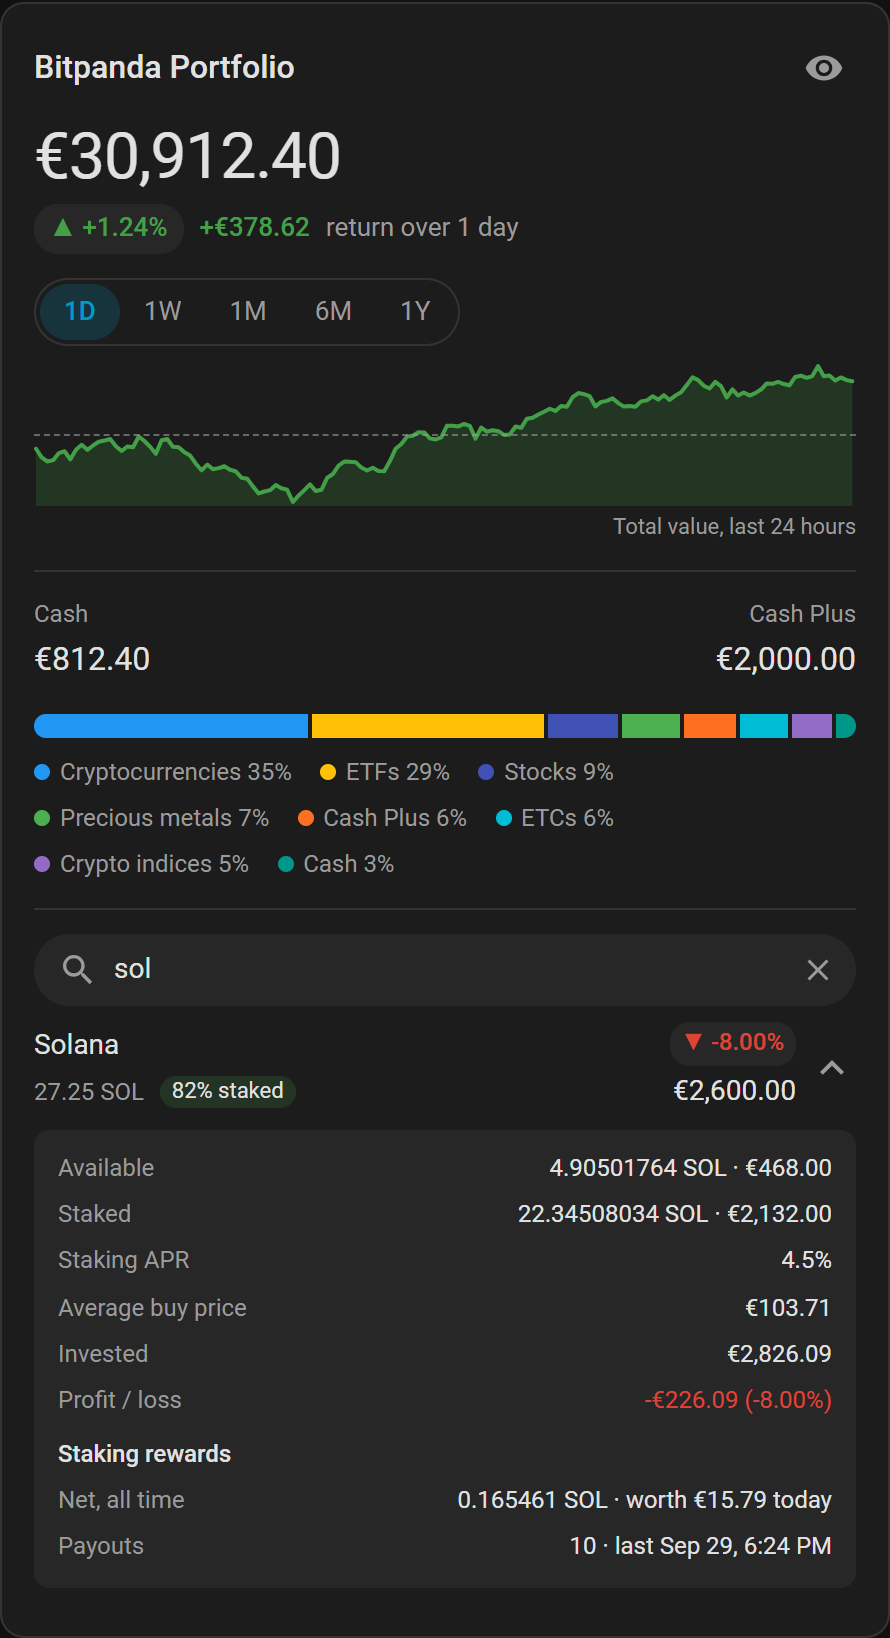
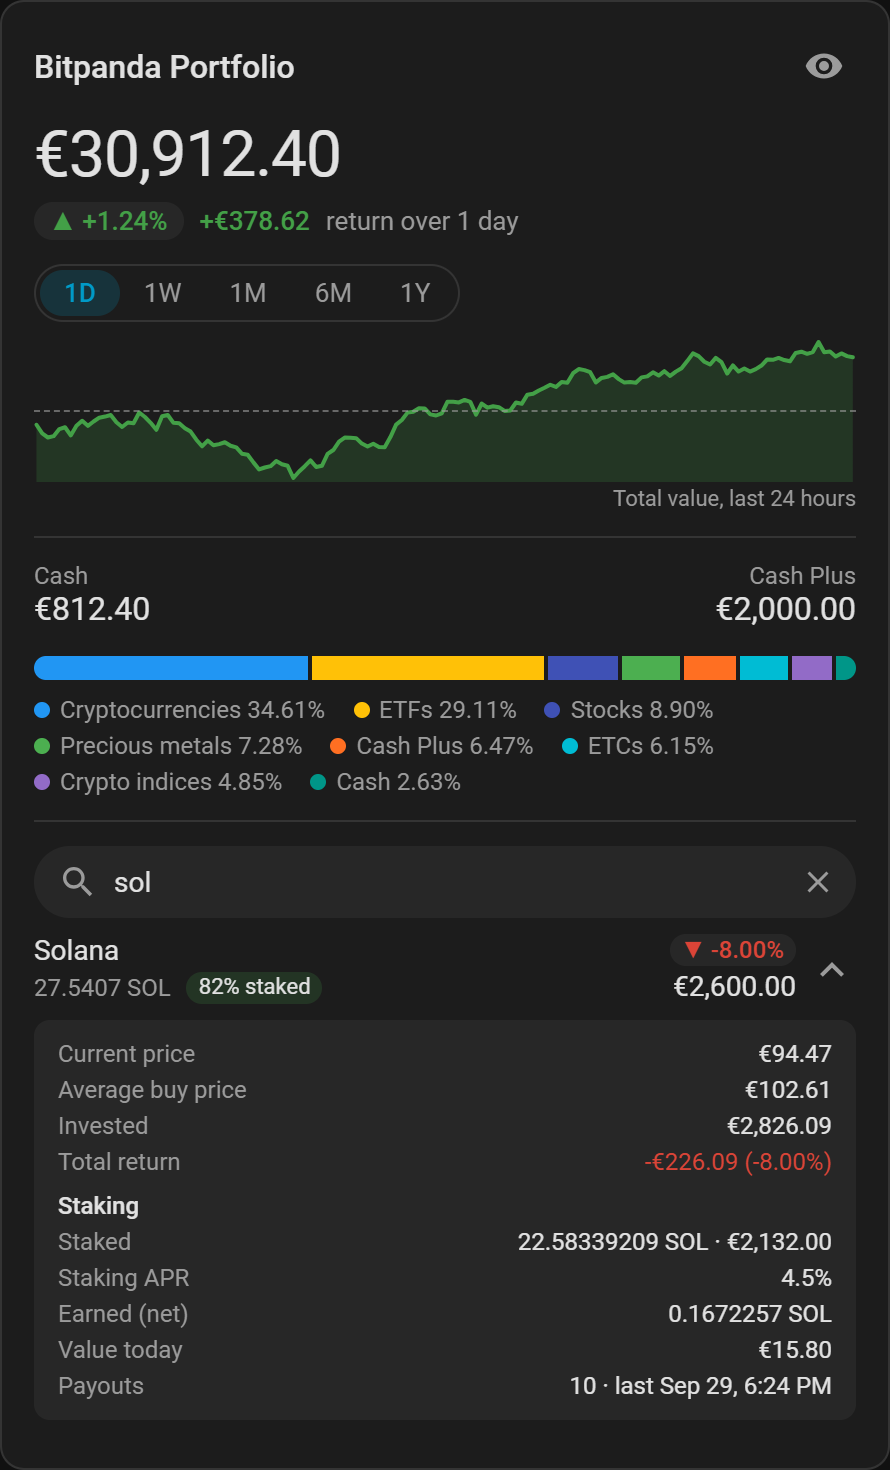
docs: bring the README and its Portfolio card pictures in line with the wallet prices, the card detail and the add dialog

diff --git a/README.md b/README.md
@@ -37,7 +37,7 @@ The integration offers two services. Set up either or both — each one once.
 - Updates every 5 minutes, each held asset's price from Bitpanda's price ticker right after them; Earn offers and rewards hourly
 
 ### Bitpanda Price Tracker
-- Live prices for more than 14,000 assets — crypto, stocks, ETFs, ETCs, Bitpanda Crypto Indices and tokenized precious metals — **without an API key**
+- Live prices for more than 11,000 assets — crypto, stocks, ETFs, ETCs, Bitpanda Crypto Indices and tokenized precious metals — **without an API key**
 - One device per tracked asset, such as **Bitcoin (BTC) Price Tracker**, in groups by asset type, with a price sensor in EUR (**Bitcoin (BTC) Price Tracker EUR**) and, optionally, one in each of the other 11 supported currencies
 - EUR prices come from Bitpanda every 60 seconds, one request per tracked asset. Should Bitpanda answer "too many requests", the integration slows down by itself and returns to every 60 seconds once Bitpanda answers again.
 - Other currencies are converted with the daily reference rates of the European Central Bank (ECB), fetched every 6 hours
@@ -154,7 +154,7 @@ The Price Tracker shows its assets in groups by type — Cryptocurrencies, Stock
 2. Choose the **Asset type**: Crypto, Stocks, ETFs, ETCs, Crypto indices or Precious metals.
 3. Choose the asset. Type a name or a symbol to search the list — for stocks, ETFs and ETCs also an ISIN. Each entry reads `Name / SYMBOL`, for stocks, ETFs and ETCs `Name / SYMBOL / ISIN`.
 
-The asset gets its own device in the group of its type; the first asset of a type creates the group. The integration keeps each list for an hour. Loading a large list, such as Stocks, can take a few seconds.
+The asset gets its own device in the group of its type; the first asset of a type creates the group. The integration keeps each list for an hour. Loading a large list, such as Stocks, can take up to half a minute the first time.
 
 #### Stop tracking
 
@@ -196,7 +196,7 @@ When the Portfolio adds a wallet for an asset that is new to it — one you boug
 - **A notification** under **Notifications**, linking to the wallet's device, in the Portfolio's language (see [Languages](#languages)). If its sensors are disabled, the notification says so and links to its device page. Switch it off under **Configure** (see [Changing settings later](#changing-settings-later)). Home Assistant does not keep notifications through a restart.
 - **The event `bitpanda_wallet_added`**, whether or not the notification is on, for your own automations (see [the example](#5-new-wallet-a-push-message-to-your-phone)). Its data: `device_id` (the wallet's device), `asset_id` (Bitpanda's ID of the asset, the device's serial number), `symbol`, `name`, `wallet` (the wallet's name, such as `Vision (VSN) Wallet`) and `category` (`crypto`, `stock`, `etf`, `etc`, `index`, `metal` or `other`).
 
-Wallets that exist when you set up the Portfolio or upgrade from a date version are not announced, and neither are wallets that come back after a restart, a currency change or a deleted group.
+Wallets that exist when you set up the Portfolio or upgrade from a date version are not announced, and neither are wallets that come back after a restart, a reload, a currency change, a deleted group, or an answer from Bitpanda that listed nothing at all.
 
 ### Staking rewards
 
@@ -282,7 +282,7 @@ To add one, edit a dashboard, choose **Add card** and search for **Bitpanda**; e
 
 | Card | Type | Shows |
 |---|---|---|
-| **Bitpanda Portfolio** | `custom:bitpanda-portfolio-card` | Total value with your return over 1 day to 1 year and a line of the total value; Cash and Cash Plus; how your money is split across asset types, Cash and Cash Plus; your wallets, by asset type or in one list — tap a group to open it, the arrow beside a wallet for its details: the current price, average buy price, invested amount, the return over 24 hours and in total, and — where Bitpanda Earn offers the asset — staked units, staking APR and staking rewards. Each part can be left out, down to total value and return alone |
+| **Bitpanda Portfolio** | `custom:bitpanda-portfolio-card` | Total value with your return over 1 day to 1 year and a line of the total value; Cash and Cash Plus; how your money is split across asset types, Cash and Cash Plus; your wallets, by asset type or in one list — tap a group to open it, the arrow beside a wallet for its details: the current price, average buy price, invested amount, the return over 24 hours and in total, and — while something is staked or Bitpanda offers Earn for the asset — staked units, staking APR and, from the first payout, staking rewards. Each part can be left out, down to total value and return alone |
 | **Bitpanda Price Tracker** | `custom:bitpanda-price-tracker-card` | Your tracked assets as a list or as tiles: price, change in percent and in the price's currency, and a line. With extra currencies set up in the Price Tracker, a switch shows the prices in them |
 
 <table>
@@ -299,12 +299,12 @@ To add one, edit a dashboard, choose **Add card** and search for **Bitpanda**; e
 ### What the cards show
 
 - **The line shows the total value, not your return.** A deposit raises it; the percentage beside it is Bitpanda's return, which leaves deposits and withdrawals out, and the amount after it is what that percentage means on today's total value. The line is Bitpanda's own history of your total value, complete from the first day. Its dashed line marks the middle between the highest and the lowest value shown. Point at the line, or move a finger along it, to see the value at that moment, with the highest, middle and lowest value at the right.
-- **A wallet's percentage** is its return since purchase, and a group's is that of all its wallets together; the timeframe switch changes neither. A wallet's total return as an amount and its return over 24 hours are in its details.
+- **A wallet's percentage** is its return since purchase, and a group's is that of all its wallets together; the timeframe switch changes neither. A wallet's total return as an amount is in its details, and so is its return over 24 hours once Home Assistant has the wallet's price of a day ago.
 - **The change in the Price Tracker** comes from Home Assistant's statistics, for 1D as for 1W to 1Y. Beside or below the percentage is the same change in the price's currency. While an asset's statistics are shorter than the timeframe, its change and its line count from their start, and the row says since when ("Change since Oct 6"). A price line breaks where Home Assistant has no statistics: while it was off or the sensor unavailable.
 - **Other currencies:** a price in another currency is Bitpanda's euro price converted at the ECB's daily reference rate, so its change includes the rate's move: on a day the euro gains 0.06 % against the dollar, a price that fell 1.12 % in euros fell 1.06 % in dollars.
 - **"—"** means that a figure is missing right now: a sensor without a value, or a change the statistics cannot give yet. A sum or a share needs all its parts: one wallet without its value shows "—" for its group and the allocation. The cards never put a figure of their own in its place.
-- **Stocks, ETFs and ETCs** count in shares, precious metals in grams. The wallet list shows up to 4 decimals, rounded down as in the Bitpanda app; a wallet's details show all of them.
-- **The eye** on the Portfolio card blurs amounts and units — for a screenshot, say — and keeps the percentages; pointing at the line then shows the time only. It hides them on that card only; nothing else changes.
+- **Stocks, ETFs and ETCs** count in shares, precious metals in grams. The wallet list shows up to 4 decimals, rounded down as in the Bitpanda app, and a holding below 0.0001 its first two digits, so it never reads 0; the staked units and rewards in a wallet's details show all decimals.
+- **The eye** on the Portfolio card blurs amounts and units — for a screenshot, say — and keeps the percentages and a wallet's current price; pointing at the line then shows the time only. It hides them on that card only; nothing else changes.
 - **A tap** opens Home Assistant's dialog of that figure, with its history.
 - **Language:** your profile language — English, German, French, Dutch, Italian, Spanish or Polish; English for any other. Asset group names are the integration's own, in that language — not a title you gave a group, nor the language chosen for the Portfolio.
 
@@ -529,7 +529,7 @@ It needs Home Assistant **2025.5** or newer. On 2025.3 or 2025.4 the entry stays
 - **Prices in other currencies are converted with ECB daily rates** instead of being quoted by Bitpanda.
 - **Long-term statistics.** Every value sensor now keeps them, from the upgrade on (see [Long-term statistics](#long-term-statistics)).
 - **A failed `bitpanda.refresh` now fails the call**, and stops a script or automation at that step unless the step sets `continue_on_error: true` (see [Refreshing by hand](#refreshing-by-hand)).
-- **Attributes:** `balance` is now `units` (on Balance (available) the unstaked units, as before); the position performance is on Balance (total), APR and rewards on Balance (staking), and prices in other currencies carry `conversion_rate`, `rate_date` and `rate_source`. `breakdown`, `wallet_count`, `all_prices`, `trading_pair`, the wallet `price` and the `icon` attribute are gone.
+- **Attributes:** `balance` is now `units` (on Balance (available) the unstaked units, as before); the wallet's `price` — now from Bitpanda's price ticker — and the position performance are on Balance (total), APR and rewards on Balance (staking), and the Price Tracker's prices in other currencies carry `conversion_rate`, `rate_date` and `rate_source`. `breakdown`, `wallet_count`, `all_prices`, `trading_pair` and the `icon` attribute are gone.
 
 ---
 
@@ -539,8 +539,8 @@ It needs Home Assistant **2025.5** or newer. On 2025.3 or 2025.4 the entry stays
 - **Cloud polling only.** Bitpanda sends no updates by itself: the integration asks at the intervals under [Features](#-features), and `bitpanda.refresh` asks right away (see [Refreshing by hand](#refreshing-by-hand)).
 - **Short outages are bridged, longer ones show.** When Bitpanda cannot be reached — while your Internet connection is down, say — the sensors keep their last value through two failed refreshes. The third failed refresh in a row, at least two regular intervals after the first, makes them `unavailable`: for the Portfolio and its returns after about 15 minutes, for prices after about 3 minutes (longer while Bitpanda rate-limits the requests). A rejected API key makes them `unavailable` at once. After a restart of Home Assistant during an outage, there is no last value to show.
 - **What disappears waits ten minutes.** When Bitpanda's answer no longer lists something the Portfolio showed — an asset, all fiat, all Cash Plus, or anything at all — the sensors that show it are `unavailable` at first, not 0: a short glitch at Bitpanda then leaves a gap in their history instead of a drop. Once three answers in a row, at least ten minutes apart from first to last, confirm it, the wallet is removed, and Total value, Cash or Cash Plus shows 0. Refreshing by hand does not make that sooner. What is already missing when the Portfolio starts shows 0 at once.
-- **Prices in other currencies are converted, not quoted.** Bitpanda's price endpoint answers in EUR only; every other currency — the Price Tracker's, and a wallet's `price` in a Portfolio outside EUR — is the EUR price × the ECB's daily reference rate, which can differ from the price Bitpanda itself shows in that currency. The ECB publishes its rates once per working day around 16:00 CET; at weekends and on holidays the last rate stays in use, and the `rate_date` attribute shows which day's rate a price uses.
-- **The 24-hour change needs a day of history.** `change_24h_pct` and `price_24h_ago` compare the price with its value from 24 hours ago in Home Assistant's statistics — the one nearest to that time within half an hour: a newly tracked price shows them only after a day, and they are missing while there is no value within that half hour, such as after Home Assistant was off, and never while the recorder does not record the sensor. A wallet's 24-hour figures compare its ticker price with the one its Balance (total) recorded about 24 hours ago, the same way: they appear one day after the update to this version, and the recorder keeps them for 10 days by default.
+- **Prices in other currencies are converted, not quoted.** Bitpanda's price endpoint answers in EUR only; every other currency — the Price Tracker's, and a wallet's `price` in a Portfolio outside EUR — is the EUR price × the ECB's daily reference rate, which can differ from the price Bitpanda itself shows in that currency. The ECB publishes its rates once per working day around 16:00 CET; at weekends and on holidays the last rate stays in use; on the Price Tracker the `rate_date` attribute shows which day's rate a price uses, a wallet's `price` does not say.
+- **The 24-hour change needs a day of history.** `change_24h_pct` and `price_24h_ago` compare the price with its value from 24 hours ago in Home Assistant's statistics — the one nearest to that time within half an hour: a newly tracked price shows them only after a day, and they are missing while there is no value within that half hour, such as after Home Assistant was off, and never while the recorder does not record the sensor. A wallet's 24-hour figures compare its ticker price with the one its Balance (total) recorded about 24 hours ago, the same way: they appear one day after the update to this version or after the wallet appeared, and only while the wallet has a ticker price; the recorder keeps them for 10 days by default.
 
 ---
 
@@ -556,9 +556,9 @@ It needs Home Assistant **2025.5** or newer. On 2025.3 or 2025.4 the entry stays
 | **Add price tracker** fails after choosing **Bitpanda Portfolio** | Home Assistant up to 2026.9 lists both Bitpanda entries in that dialog: choose **Bitpanda Price Tracker**, or use **⋮ → Add price tracker** on its entry (see [Track prices](#track-prices)) |
 | Dialogs show raw text | Reload the browser tab (`Ctrl+F5` / `Cmd+Shift+R`) — your browser cached old translations |
 | Group titles or the integration's messages are in English while everything else is in your language | They follow the language chosen for each service — when it was added, or later under **Configure** — not Home Assistant's language; after an upgrade from a date version it is English. Choose your language under **Configure** |
-| A wallet sensor is `unavailable` | The asset is no longer in your portfolio; the wallet is removed after about 15 minutes, or at once with **⋮ → Delete** on its device page |
+| A wallet sensor is `unavailable` | The asset is no longer in your portfolio; the wallet is removed 10 to 15 minutes after you sold it, or at once with **⋮ → Delete** on its device page |
 | An asset you hold has no wallet | Bitpanda's asset catalogue does not list the asset, at least not yet: without its name and type, no wallet can be set up. Its value still counts in **Total value**. Bitpanda's API names such an asset only by its ID; to see the ID, enable debug logging and reload the Bitpanda Portfolio. Once the catalogue lists it, the wallet appears within a day |
-| A new wallet brought no notification | Check **Configure** on the Portfolio: the notification may be switched off. Wallets that existed when the Portfolio was set up or upgraded from a date version are not announced, and Home Assistant drops notifications at a restart. An asset sold and bought again within about 15 minutes keeps its wallet, so nothing is new. The event `bitpanda_wallet_added` comes even with the notification off |
+| A new wallet brought no notification | Check **Configure** on the Portfolio: the notification may be switched off. Wallets that existed when the Portfolio was set up or upgraded from a date version are not announced, and Home Assistant drops notifications at a restart. An asset sold and bought again within ten minutes keeps its wallet, so nothing is new. The event `bitpanda_wallet_added` comes even with the notification off |
 | A staking reward brought no notification | The notification is off by default: switch it on under **Configure** on the Portfolio. Only assets with an enabled **Balance (staking)** sensor count, and the rewards are checked once an hour. Payouts made before you set up the Portfolio are not announced, and Home Assistant drops notifications at a restart. The event `bitpanda_staking_reward_received` comes even with the notification off |
 | Every sensor of a service is `unavailable` | Bitpanda has not answered three refreshes in a row, or answered "too many requests" (see [Known limitations](#%EF%B8%8F-known-limitations)); after a restart during an outage this shows at once. Or it rejected the API key — then Home Assistant asks for a new one |
 | Portfolio Total value, Cash, Cash Plus or a wallet sensor is `unknown` | Bitpanda answered, but an entry could not be read or came without a value; rather than show a figure that silently leaves something out, the sensor shows none until Bitpanda sends it again. Enable debug logging to see which entry. Cash Plus is also `unknown` while looking up an asset you hold fails at Bitpanda; the integration tries again at every refresh. |
@@ -568,8 +568,9 @@ It needs Home Assistant **2025.5** or newer. On 2025.3 or 2025.4 the entry stays
 | No Balance (staking) sensor for an asset | It appears once something is staked or Bitpanda offers an Earn product for the asset |
 | A price in another currency has no value and a `conversion` attribute | The ECB rates could not be loaded since the Price Tracker last started — a restart, or a reload after you added an asset or changed its options; the integration retries every 15 minutes and the value appears with the first success |
 | One asset's price sensors are `unavailable` | Bitpanda returned no price for it three rounds in a row; see the warning in the log |
-| Prices update less often than every minute | Bitpanda answered "too many requests": the integration waits longer between rounds, up to 16 minutes, and returns to every 60 seconds as soon as Bitpanda answers again. The log warns when it slows down, and Home Assistant adds one error line of its own, "Error fetching bitpanda_tickers data: Bitpanda received too many price requests"; that it is back shows only with debug logging. With many tracked assets a round itself takes a while: the next one starts 60 seconds after it ends. |
-| 24-hour price change missing | A newly tracked price shows it after a day, and only while the recorder records the sensor (see [Known limitations](#%EF%B8%8F-known-limitations)) |
+| Prices update less often than every minute | Bitpanda answered "too many requests": the integration waits longer between rounds, up to 16 minutes, and returns to every 60 seconds as soon as Bitpanda answers again. The log warns when it slows down, and Home Assistant adds one error line of its own, "Error fetching bitpanda_tickers data: Bitpanda received too many price requests. Retrying later"; that it is back shows only with debug logging. With many tracked assets a round itself takes a while: the next one starts 60 seconds after it ends. |
+| A wallet has no `price` and no 24-hour figures, and the card shows "—" for its price | Bitpanda's price ticker has given no price for the asset for more than 15 minutes; the value of its staking rewards (`rewards_net_value`) is missing then too. The log warns once, naming the asset's ID (the device's serial number); that the price is back shows only with debug logging. Outside EUR the price also needs the ECB rates: until they load, Home Assistant logs "Error fetching bitpanda_portfolio_ecb data", and the integration retries every 15 minutes |
+| 24-hour price change missing | A newly tracked price shows it after a day, and only while the recorder records the sensor. A wallet's 24-hour figures appear a day after the update to this version or after the wallet appeared, and only while it has a ticker price (see the row above and [Known limitations](#%EF%B8%8F-known-limitations)) |
 | A Portfolio sensor keeps no statistics after you set the Portfolio up again in another currency, and **Settings → Repairs** reports "The unit of sensor.bitpanda_… has changed" | Home Assistant still holds its statistics in the old currency — if setup offered to delete them, you kept them. Delete them under **Settings → Tools → Statistics** (before Home Assistant 2026.8: **Developer tools → Statistics**), where the sensor is listed with the changed unit |
 | A card shows "Custom element doesn't exist", or **Add card** does not list the Bitpanda cards | Reload the page twice — your browser loads the cards when it opens Home Assistant, and the first reload after a new installation or an update can still come from its cache. A new browser tab works at once. In the Home Assistant app, reset its frontend cache (see [Dashboard cards](#-dashboard-cards)). The cards need no entry under **Resources**: the integration loads them itself |
 | A card shows "—" where a value should be | The sensor behind it has no value right now; the rows above say why |
